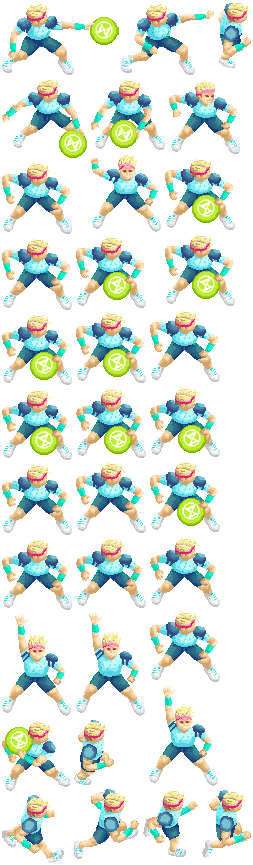
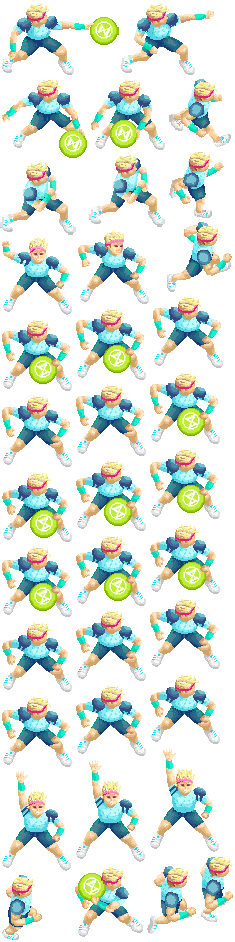
Added blocking animaiton

diff --git a/js/Player.js b/js/Player.js
@@ -33,8 +33,8 @@ var Player = function (game, x, y, playerIdentifier, teamIdentifier) {
     this.SPEED = 200;
     this.POWER = 200;
     this.HOLDTHRESHOLD = 1000;
-    console.log(Phaser.Animation.generateFrameNames('standing', 1, 6, '.png', 0))
-    this.runningAnimation = this.animations.add('running-right-left', Phaser.Animation.generateFrameNames('running-right-left-', 1, 6, '.png', 0), 15, false);
+    console.log(Phaser.Animation.generateFrameNames('blocking', 1, 2, '.png', 0))
+    this.runningAnimation = this.animations.add('running-right-left', Phaser.Animation.generateFrameNames('running-right-left-', 1, 6, '.png', 0), 12, false);
     // this.animations.play('running-right-left', 15, true);
   //  this.throwAnimation = this.animations.add('throw', [5,4,3,2,1,0], 15, false);
     this.throwAnimation = this.animations.add('normal-throw', Phaser.Animation.generateFrameNames('normal-throw-', 1, 6, '.png', 0), 15, false);
@@ -42,7 +42,8 @@ var Player = function (game, x, y, playerIdentifier, teamIdentifier) {
 
     this.standingAnimation = this.animations.add('standing', Phaser.Animation.generateFrameNames('standing-', 1, 8, '.png', 0), 15, false);
    
-
+    this.blockingAnimation = this.animations.add('blocking', Phaser.Animation.generateFrameNames('blocking-', 1, 2, '.png', 0), 5, false);
+    this.blockingAnimation.onComplete.add(function(){this.isBlocking = false; this.canMove = true}, this); 
     this.holdingAnimation = this.animations.add('holding', Phaser.Animation.generateFrameNames('holding-', 1, 8, '.png', 0), 15, false);
     //this.throwAnimation = this.sprite.animations.add('throw', Phaser.Animation.generateFrameNames('normal-throw', 1, 6), 15, false);
 
@@ -116,14 +117,14 @@ Player.prototype.update = function() {
 
     // Just for testing
     if (this.specialMovePending){
-        this.tint = 0xff0000;
+       // this.tint = 0xff0000;
     }
 
-    if (this.isBlocking){
-        this.tint = 0xff0000;
-    } else {
-        this.tint = 0xffffff;
-    }
+    // if (this.isBlocking){
+    //     this.tint = 0xff0000;
+    // } else {
+    //     this.tint = 0xffffff;
+    // }
 
     this.manageAnimations();
     this.clampPosition();
@@ -137,7 +138,9 @@ Player.prototype.update = function() {
 
 Player.prototype.manageAnimations = function(){
     if (this.body.velocity.x != 0 || this.body.velocity.y != 0){
-        
+            
+            this.isBlocking = false;
+            this.canMove = true;
             this.startAnimation(this.runningAnimation)
         
         
@@ -162,14 +165,16 @@ Player.prototype.manageAnimations = function(){
             }
 
         } else if (this.chargeTimer > 0){ // we're not returning to start position but the dic is popped
-            if (!this.hasDisc){
+            if (!this.hasDisc && !this.blockingAnimation.isPlaying){
                 this.startAnimation(this.chargingAnimation)
             }
         } else if (this.chargeTimer == 0){ // disc is not lobbed or popped right now
             if (this.hasDisc){
                 this.startAnimation(this.holdingAnimation)
             } else {
-                this.startAnimation(this.standingAnimation)
+                if (!this.blockingAnimation.isPlaying){
+                    this.startAnimation(this.standingAnimation)
+                }
             }
         } 
     }
@@ -181,6 +186,7 @@ Player.prototype.stopAllAnimations = function(){
     this.chargingAnimation.stop();
     //this.throwAnimation.stop();
     this.holdingAnimation.stop();
+    this.blockingAnimation.stop();
 }
 
 Player.prototype.startAnimation = function(whichAnimation){
@@ -418,8 +424,9 @@ if (!this.hasDisc && !this.isDashing && this.canMove && !this.justThrown){
             this.body.velocity.x = 700 * diagonalFactor;
         } else if (notMovingUpOrDown && !this.isBlocking && !theDisc.isPoppedUp && !theDisc.isBeingLobbed){
             this.isBlocking = true;
+            this.startAnimation(this.blockingAnimation)
             // Replace this with an oncomplete 
-            game.time.events.add(Phaser.Timer.SECOND*.25, function(){this.isBlocking = false; this.canMove = true}, this); 
+            
 
         } else if (notMovingUpOrDown && !this.isBlocking && (theDisc.isPoppedUp || theDisc.isBeingLobbed)) {
             this.canMove = true;
@@ -444,11 +451,11 @@ Player.prototype.checkForSpecialCharge = function(){
     //  console.log(this.chargeTimer)
     if ((theDisc.isBeingLobbed || theDisc.isPoppedUp) && this.specialEligible){
 
-        this.tint = 0xff00ff;
+       // this.tint = 0xff00ff;
         this.chargeTimer += 1;
 
     } else {
-        this.tint = 0xffffff;
+       // this.tint = 0xffffff;
         this.chargeTimer = 0;
     }
 
@@ -459,7 +466,7 @@ Player.prototype.checkForSpecialCharge = function(){
     }
 
     if (this.specialMoveCharged){
-         this.tint = 0x000000;
+         //this.tint = 0x000000;
     }
 
 }
@@ -609,7 +616,7 @@ Player.prototype.lobDisc = function(movingUp, movingDown, diagonalFactor){
         theDisc.body.velocity.y = distanceVec.y * -300;
         theDisc.body.velocity.x = distanceVec.x * -300;
         this.justThrown = true;
-        game.time.events.add(Phaser.Timer.SECOND*.5, function(){this.justThrown = false}, this);
+        game.time.events.add(Phaser.Timer.SECOND*.1, function(){this.justThrown = false}, this);
         theDisc.catchable = false;
         theDisc.nextX = destX;
         theDisc.nextY = destY;
